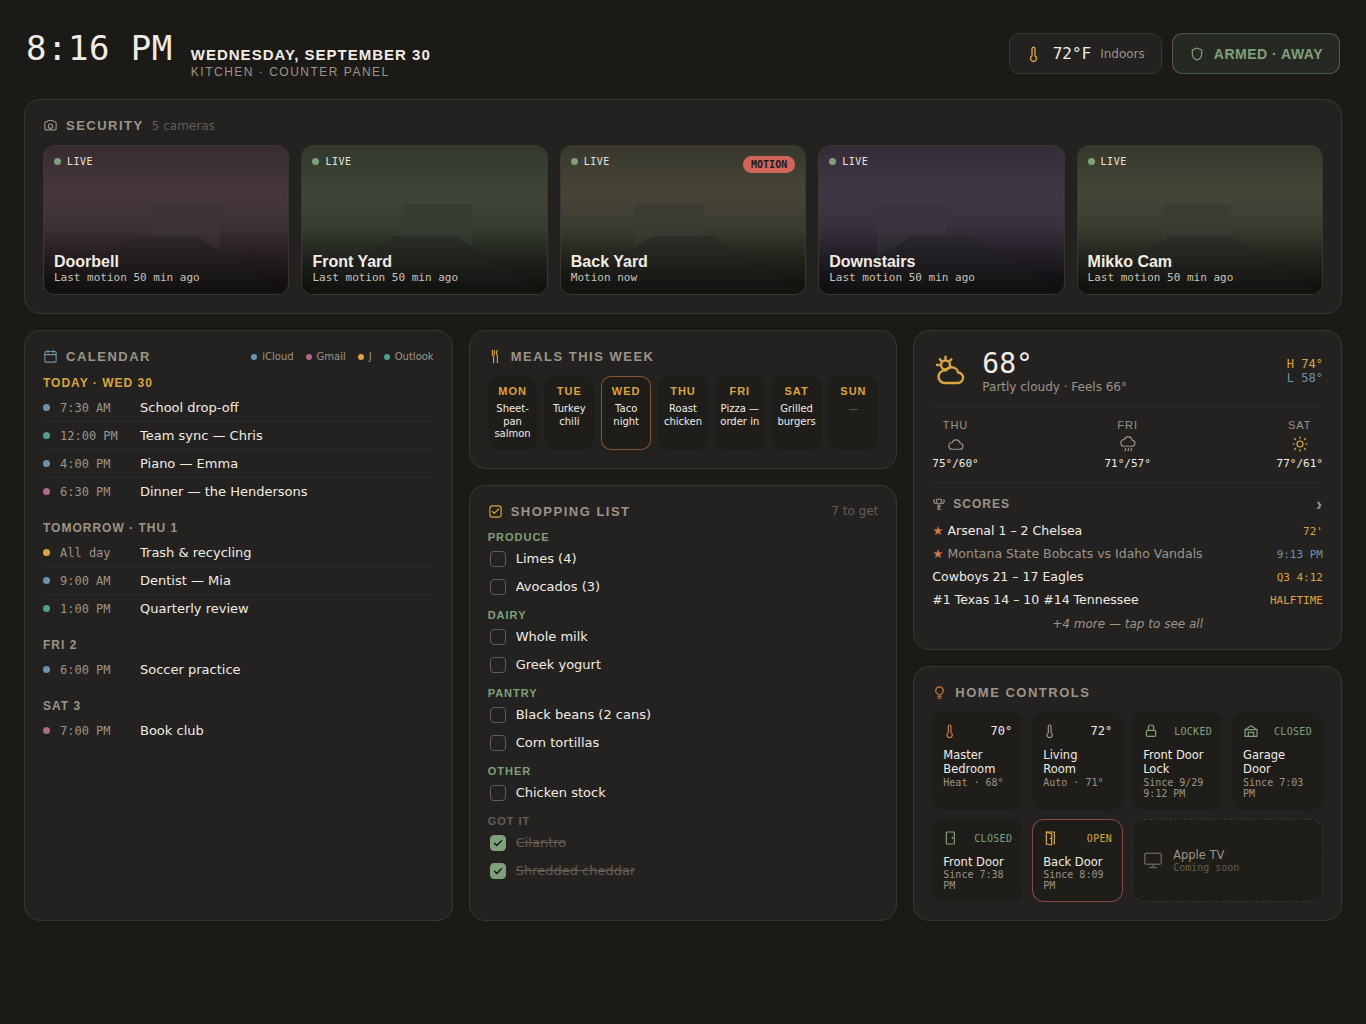
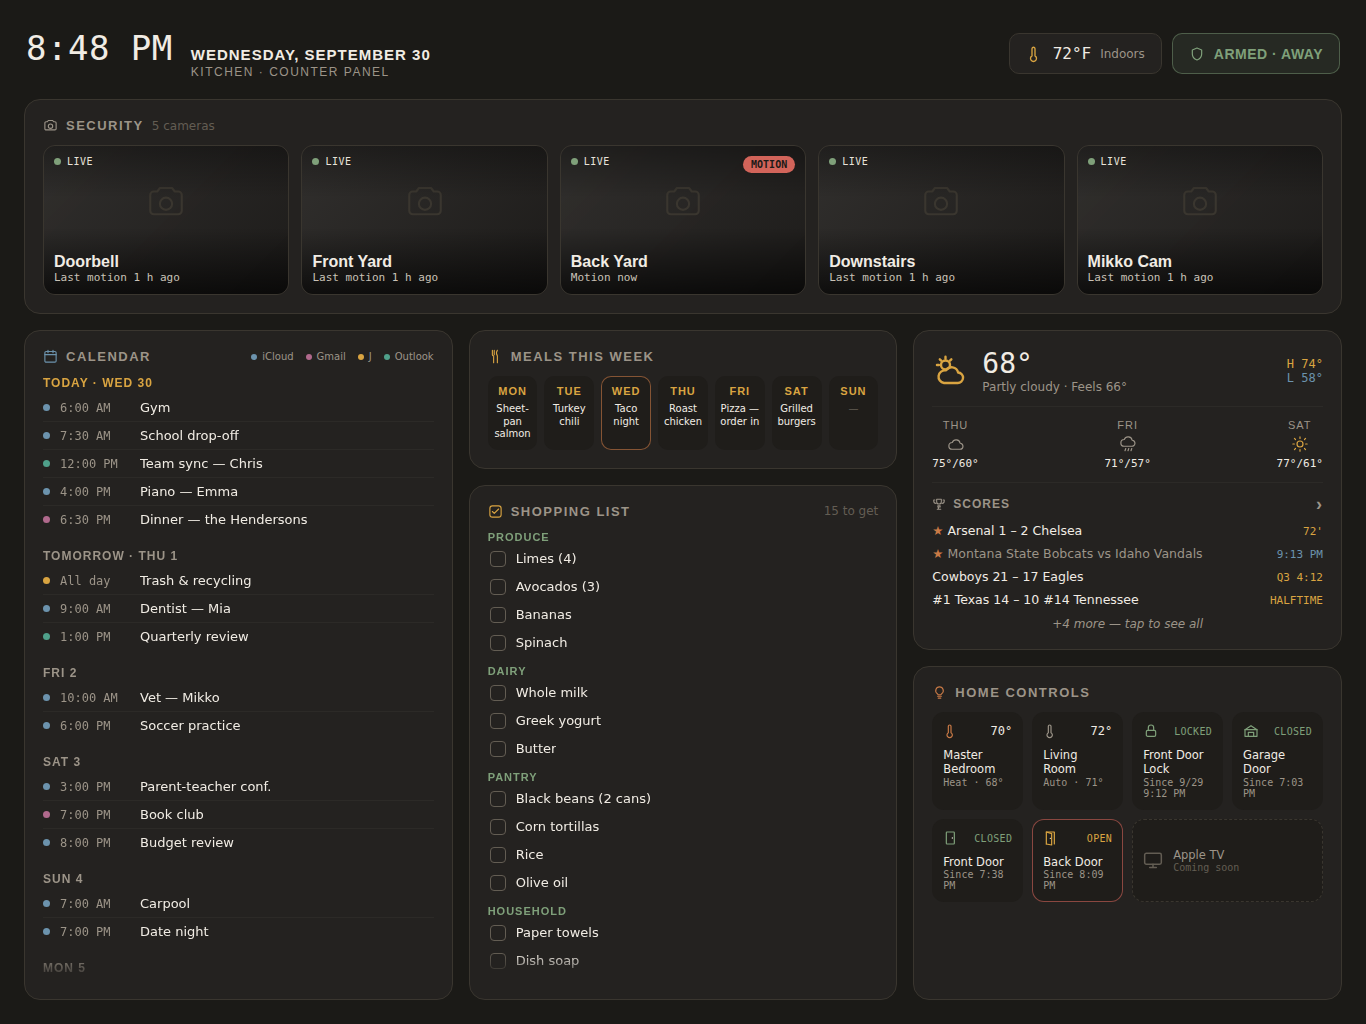
Add files via upload

diff --git a/counter-panel-cards.js b/counter-panel-cards.js
@@ -14,7 +14,7 @@
  * themes carry through. No build step, no dependencies. MIT licence.
  */
 
-const CP_VERSION = "0.1.0";
+const CP_VERSION = "0.2.0";
 
 /* ------------------------------------------------------------------ helpers */
 
@@ -125,9 +125,24 @@ const CP_BASE = `
     background: var(--_panel); border: 1px solid var(--_line); border-radius: 16px;
     box-shadow: none; color: var(--_text); font-family: var(--_body);
     padding: 18px; box-sizing: border-box; overflow: hidden; height: 100%;
+    display: flex; flex-direction: column;
   }
   ha-card.bare { background: transparent; border: none; padding: 4px 2px; }
-  .label { display: flex; align-items: center; gap: 8px; margin-bottom: 12px; }
+  .label { display: flex; align-items: center; gap: 8px; margin-bottom: 12px; flex: none; }
+
+  /* Scrolling body: used when the card is given a fixed height (e.g. by the layout's fit_screen). */
+  .scroll {
+    flex: 1 1 auto; min-height: 0; overflow-y: auto; overflow-x: hidden;
+    overscroll-behavior: contain; -webkit-overflow-scrolling: touch;
+    scrollbar-width: thin; scrollbar-color: var(--_line) transparent;
+    margin-right: -8px; padding-right: 8px;  /* keep the scrollbar off the content */
+  }
+  .scroll::-webkit-scrollbar { width: 4px; }
+  .scroll::-webkit-scrollbar-thumb { background: var(--_line); border-radius: 4px; }
+  .scroll.fade {
+    -webkit-mask-image: linear-gradient(to bottom, #000 calc(100% - 28px), transparent);
+            mask-image: linear-gradient(to bottom, #000 calc(100% - 28px), transparent);
+  }
   .label .t {
     font-family: var(--_display); font-size: 13px; font-weight: 600;
     letter-spacing: 1.5px; text-transform: uppercase; color: var(--_dim);
@@ -174,6 +189,8 @@ class CounterBase extends HTMLElement {
 
   disconnectedCallback() {
     clearInterval(this._tickTimer);
+    clearTimeout(this._scrollTimer);
+    this._scrollObserver?.disconnect();
     this._tickTimer = null;
     this.disconnected?.();
   }
@@ -200,8 +217,36 @@ class CounterBase extends HTMLElement {
 
   _draw() {
     if (!this.shadowRoot) this.attachShadow({ mode: "open" });
+    // Keep each scrolling list where the viewer left it when the card refreshes.
+    const saved = {};
+    this.shadowRoot.querySelectorAll("[data-scroll]").forEach((el) => { saved[el.dataset.scroll] = el.scrollTop; });
     this.shadowRoot.innerHTML = `<style>${CP_BASE}${this.styles?.() || ""}</style>${this.render()}`;
     this.afterRender?.();
+    this._wireScroll(saved);
+  }
+
+  /** Restore scroll positions, show a fade when more is below, drift back to the top when idle. */
+  _wireScroll(saved) {
+    this._scrollObserver?.disconnect();
+    const lists = [...this.shadowRoot.querySelectorAll("[data-scroll]")];
+    if (!lists.length) return;
+    const idle = Number(this._config?.scroll_reset ?? 60);
+    const update = (el) => el.classList.toggle("fade", el.scrollHeight - el.scrollTop - el.clientHeight > 4);
+    for (const el of lists) {
+      if (saved[el.dataset.scroll]) el.scrollTop = saved[el.dataset.scroll];
+      update(el);
+      el.addEventListener("scroll", () => {
+        update(el);
+        clearTimeout(this._scrollTimer);
+        if (idle > 0 && el.scrollTop > 0) {
+          this._scrollTimer = setTimeout(() => el.scrollTo({ top: 0, behavior: "smooth" }), idle * 1000);
+        }
+      }, { passive: true });
+    }
+    if (window.ResizeObserver) {
+      this._scrollObserver = new ResizeObserver(() => lists.forEach(update));
+      lists.forEach((el) => this._scrollObserver.observe(el));
+    }
   }
 
   state(id) { return id ? this._hass?.states[id] : undefined; }
@@ -570,7 +615,7 @@ class CounterCalendarCard extends CounterBase {
       return `<div class="day${i === 0 ? " today" : ""}"><h4>${cpEsc(fmt(day.date, i))}</h4>${rows}</div>`;
     }).join("");
     const errs = (this._errors || []).map((id) => `<div class="warn">Couldn't load ${cpEsc(id)}</div>`).join("");
-    return `<ha-card>${head}${errs}<div class="days">${body}</div></ha-card>`;
+    return `<ha-card>${head}${errs}<div class="days scroll" data-scroll="days">${body}</div></ha-card>`;
   }
 }
 
@@ -764,7 +809,7 @@ class CounterShoppingCard extends CounterBase {
       if (limit && open.length > limit) body += `<div class="empty">+${open.length - limit} more</div>`;
       if (shownDone.length) body += `<div class="sect" style="color:var(--_faint)">Got it</div>${shownDone.map(row).join("")}`;
     }
-    return `<ha-card>${head}${this._error ? `<div class="warn">${cpEsc(this._error)}</div>` : ""}<div class="items">${body}</div></ha-card>`;
+    return `<ha-card>${head}${this._error ? `<div class="warn">${cpEsc(this._error)}</div>` : ""}<div class="items scroll" data-scroll="items">${body}</div></ha-card>`;
   }
 
   afterRender() { this.bindActions((uid) => this._toggle(uid)); }
@@ -981,7 +1026,7 @@ class CounterControlsCard extends CounterBase {
     const c = this._config;
     return `<ha-card>
       <div class="label">${cpIcon("bulb", 15, "var(--_accent)")}<span class="t">${cpEsc(c.title)}</span></div>
-      <div class="grid" style="--cols:${c.columns}">${c.items.map((it, i) => this._tile(it, i)).join("")}</div>
+      <div class="scroll" data-scroll="controls"><div class="grid" style="--cols:${c.columns}">${c.items.map((it, i) => this._tile(it, i)).join("")}</div></div>
     </ha-card>`;
   }
 
@@ -1012,7 +1057,7 @@ class CounterControlsCard extends CounterBase {
 class CounterLayoutCard extends HTMLElement {
   setConfig(config) {
     if (!config || !Array.isArray(config.rows)) throw new Error("Add 'rows' to the layout");
-    this._config = { padding: 24, gap: 16, stack_below: 900, ...config };
+    this._config = { padding: 24, gap: 16, stack_below: 900, fit_screen: true, min_column_height: 320, ...config };
     if (config.fonts !== false) cpLoadFonts();
     this._built = false;
     this._build();
@@ -1025,21 +1070,57 @@ class CounterLayoutCard extends HTMLElement {
 
   getCardSize() { return 12; }
 
+  connectedCallback() {
+    this._onResize = () => this._fit();
+    window.addEventListener("resize", this._onResize);
+    window.visualViewport?.addEventListener("resize", this._onResize);
+    requestAnimationFrame(() => this._fit());
+  }
+
+  disconnectedCallback() {
+    window.removeEventListener("resize", this._onResize);
+    window.visualViewport?.removeEventListener("resize", this._onResize);
+  }
+
+  /** fit_screen: size the page to the space below the card's top edge, so only the cards scroll. */
+  _fit() {
+    const page = this.shadowRoot?.querySelector(".page");
+    if (!page || !this._config?.fit_screen) return;
+    const viewport = window.visualViewport?.height || window.innerHeight;
+    const top = Math.max(0, this.getBoundingClientRect().top);
+    page.style.setProperty("--avail", `${Math.max(480, Math.floor(viewport - top))}px`);
+  }
+
   async _build() {
     const cfg = this._config;
     if (!this.shadowRoot) this.attachShadow({ mode: "open" });
     const pad = Number(cfg.padding) || 0;
     const gap = Number(cfg.gap) || 0;
+    const minCol = Number(cfg.min_column_height) || 0;
     this.shadowRoot.innerHTML = `<style>
       :host { display: block; }
       .page { padding: ${pad}px; display: flex; flex-direction: column; gap: ${gap}px; box-sizing: border-box; }
+      .page > * { flex: none; }
       .cols { display: grid; grid-template-columns: repeat(var(--n), minmax(0, 1fr)); gap: ${gap}px; align-items: stretch; }
       .cols.top { align-items: start; }
       .col { display: flex; flex-direction: column; gap: ${gap}px; min-width: 0; }
-      .col.fill > :last-child { flex: 1; }
-      @media (max-width: ${Number(cfg.stack_below) || 900}px) { .cols { grid-template-columns: minmax(0, 1fr); } }
+      .col > * { flex: none; }
+      .col.fill > :last-child { flex: 1 1 auto; }
+
+      /* Fit to screen: the growing column row takes the leftover height and its last cards scroll inside. */
+      .page.fit { height: var(--avail, 100vh); }
+      .page.fit > .cols.grow { flex: 1 1 0; min-height: ${minCol}px; grid-template-rows: minmax(0, 1fr); }
+      .page.fit .cols.grow > .col { min-height: 0; }
+      .page.fit .cols.grow > .col.fill > :last-child { flex: 1 1 0; min-height: ${Number(cfg.min_card_height ?? 160)}px; }
+
+      @media (max-width: ${Number(cfg.stack_below) || 900}px) {
+        .cols { grid-template-columns: minmax(0, 1fr); }
+        .page.fit { height: auto; }
+        .page.fit > .cols.grow { flex: none; min-height: 0; grid-template-rows: none; }
+        .page.fit .cols.grow > .col.fill > :last-child { flex: none; }
+      }
       .err { color: var(--error-color, #db4437); padding: 8px; font: 13px sans-serif; }
-    </style><div class="page"></div>`;
+    </style><div class="page${cfg.fit_screen ? " fit" : ""}"></div>`;
     const page = this.shadowRoot.querySelector(".page");
     let helpers;
     try { helpers = await window.loadCardHelpers?.(); } catch (e) { helpers = null; }
@@ -1061,7 +1142,7 @@ class CounterLayoutCard extends HTMLElement {
     for (const row of cfg.rows) {
       if (row.columns) {
         const wrap = document.createElement("div");
-        wrap.className = row.fill_last === false ? "cols top" : "cols";
+        wrap.className = row.fill_last === false ? "cols top" : row.grow === false ? "cols" : "cols grow";
         wrap.style.setProperty("--n", row.columns.length);
         for (const col of row.columns) {
           const colEl = document.createElement("div");
@@ -1075,6 +1156,7 @@ class CounterLayoutCard extends HTMLElement {
       }
     }
     if (this._hass) this.hass = this._hass;
+    requestAnimationFrame(() => this._fit());
   }
 }
 

diff --git a/README.md b/README.md
@@ -43,14 +43,20 @@ Copy `counter-panel-cards.js` to `config/www/`, then Settings → Dashboards →
 type: custom:counter-layout-card
 padding: 24        # outer padding, px
 gap: 16            # space between cards, px
-stack_below: 900   # below this screen width, columns stack
+stack_below: 900   # below this screen width, columns stack (and the page scrolls normally)
+fit_screen: true   # fill exactly the screen height; the last card in each column scrolls inside instead of the page
+min_column_height: 320   # the column row never gets shorter than this
+min_card_height: 160     # a scrolling card never gets shorter than this
 rows:
   - card: { type: custom:counter-header-card, ... }      # one full-width card
   - columns:                                              # equal-width columns
       - [ { type: custom:counter-calendar-card, ... } ]
       - [ { ... }, { ... } ]
     fill_last: true  # last card in each column stretches to the row's height (default)
+    grow: true       # with fit_screen, this row takes the height left over (default for column rows)
 ```
+
+With `fit_screen`, the calendar, shopping list and controls cards scroll inside themselves: titles stay put, a fade shows when there's more below, the list keeps its place when the card refreshes, and it slides back to the top after a minute without a touch. Set `scroll_reset` on any of those cards (seconds, `0` to turn off) to change that.
 
 ### counter-header-card
 `subtitle`, `temperature_entity` (climate or sensor), `temperature_label` (default "Indoors"), `alarm_entity`. Tapping a pill opens that entity.
